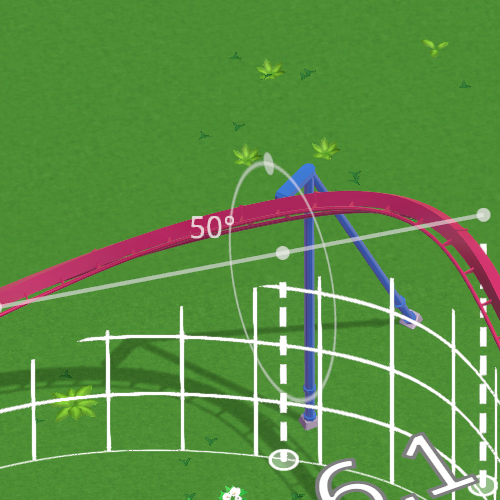
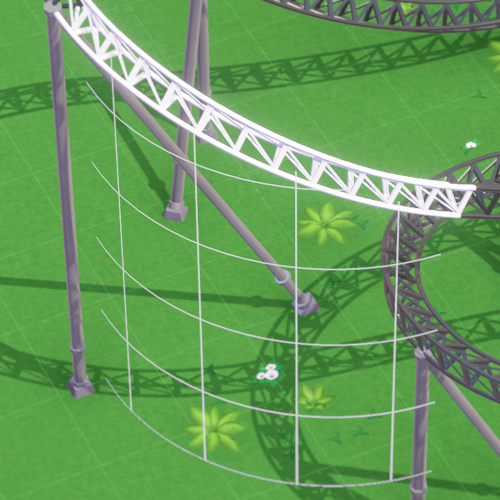
updated preview

diff --git a/HeightMarkerPlane.cs b/HeightMarkerPlane.cs
@@ -51,7 +51,7 @@ namespace TrackHeightPlane
             _meshFilter = _heightMarkerGo.AddComponent<MeshFilter>();
             var meshRenderer = _heightMarkerGo.AddComponent<MeshRenderer>();
             meshRenderer.sharedMaterial = GetMaterialPlane();
-            _heightMarkerGo.transform.SetParent(transform);
+//            _heightMarkerGo.transform.SetParent(transform);
 
         }
 
@@ -69,8 +69,8 @@ namespace TrackHeightPlane
                 if (Time.time - _update > .5f)
                 {
 
-                    _heightMarkerGo.transform.localPosition = Vector3.zero;
-                    _heightMarkerGo.transform.localRotation = Quaternion.identity;
+                    _heightMarkerGo.transform.position = Vector3.zero;
+                    _heightMarkerGo.transform.rotation = Quaternion.identity;
                     
                     var verticies = new List<Vector3>();
                     var triangles = new List<int>();
@@ -88,10 +88,10 @@ namespace TrackHeightPlane
                     var magnitude = (position - vector).magnitude;
 
 
-                    verticies.Add(transform.InverseTransformPoint(position));
+                    verticies.Add(position);
                     verticies.Add(
-                        transform.InverseTransformPoint(position + Vector3.down * magnitude *
-                                                        Mathf.Sign(position.y - vector.y)));
+                        position + Vector3.down * magnitude *
+                                                        Mathf.Sign(position.y - vector.y));
 
                     uvs.Add(new Vector2(0, magnitude));
                     uvs.Add(new Vector2(0, 0));
@@ -111,10 +111,8 @@ namespace TrackHeightPlane
                         magnitude = (position - vector).magnitude;
 
 
-                        verticies.Add(transform.InverseTransformPoint(position));
-                        verticies.Add(
-                            transform.InverseTransformPoint(
-                                position + Vector3.down * magnitude * Mathf.Sign(position.y - vector.y)));
+                        verticies.Add(position);
+                        verticies.Add(position + Vector3.down * magnitude * Mathf.Sign(position.y - vector.y));
 
                         xoffset += Vector3.Distance(previous, position);
                         uvs.Add(new Vector2(xoffset, vector.y + magnitude));
